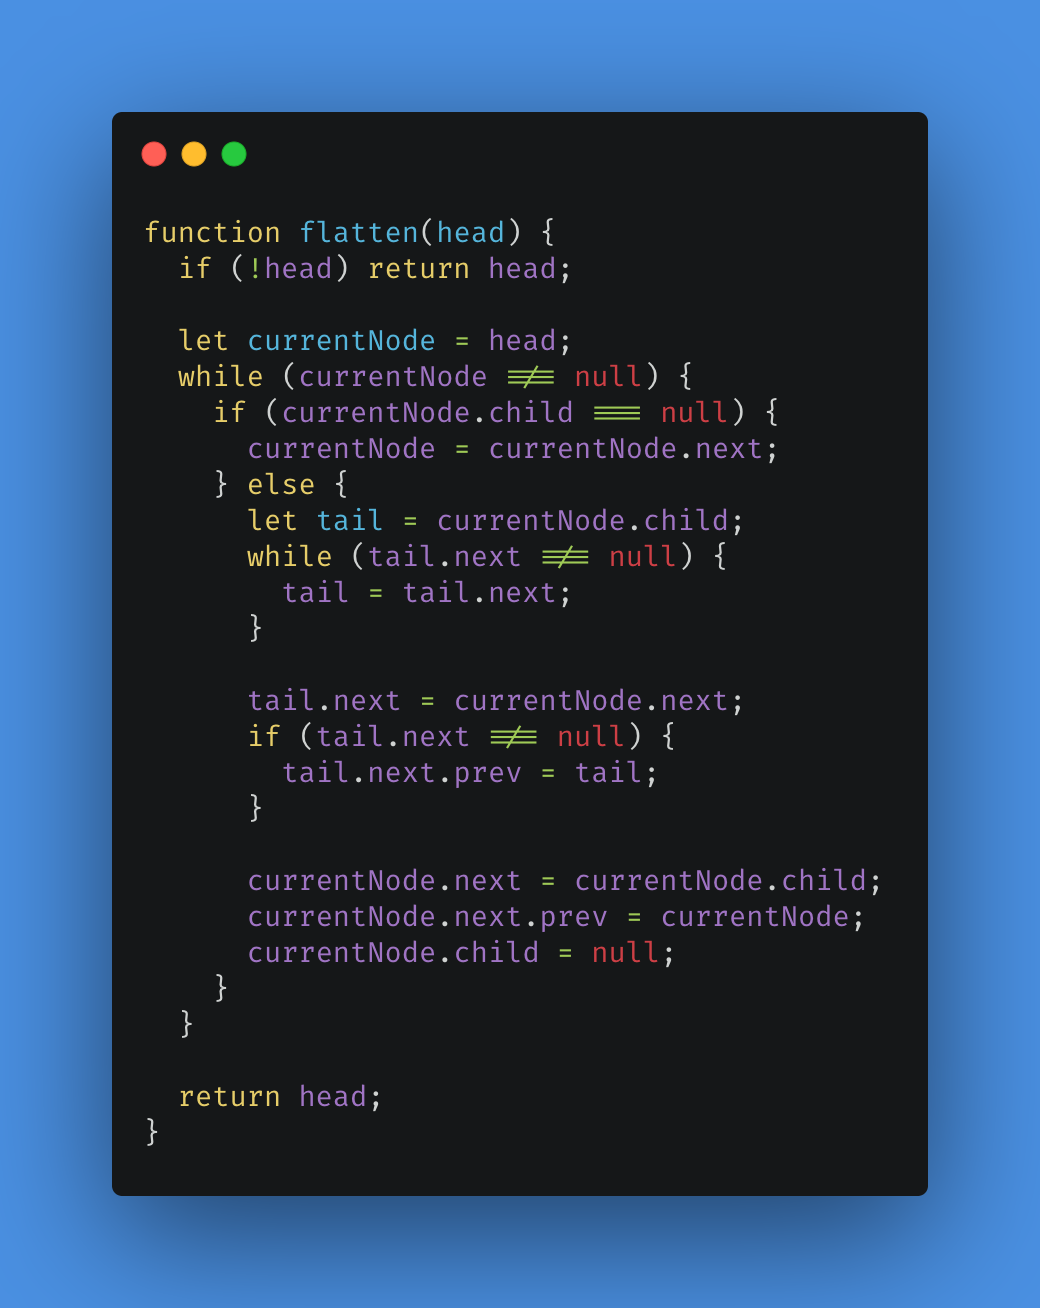
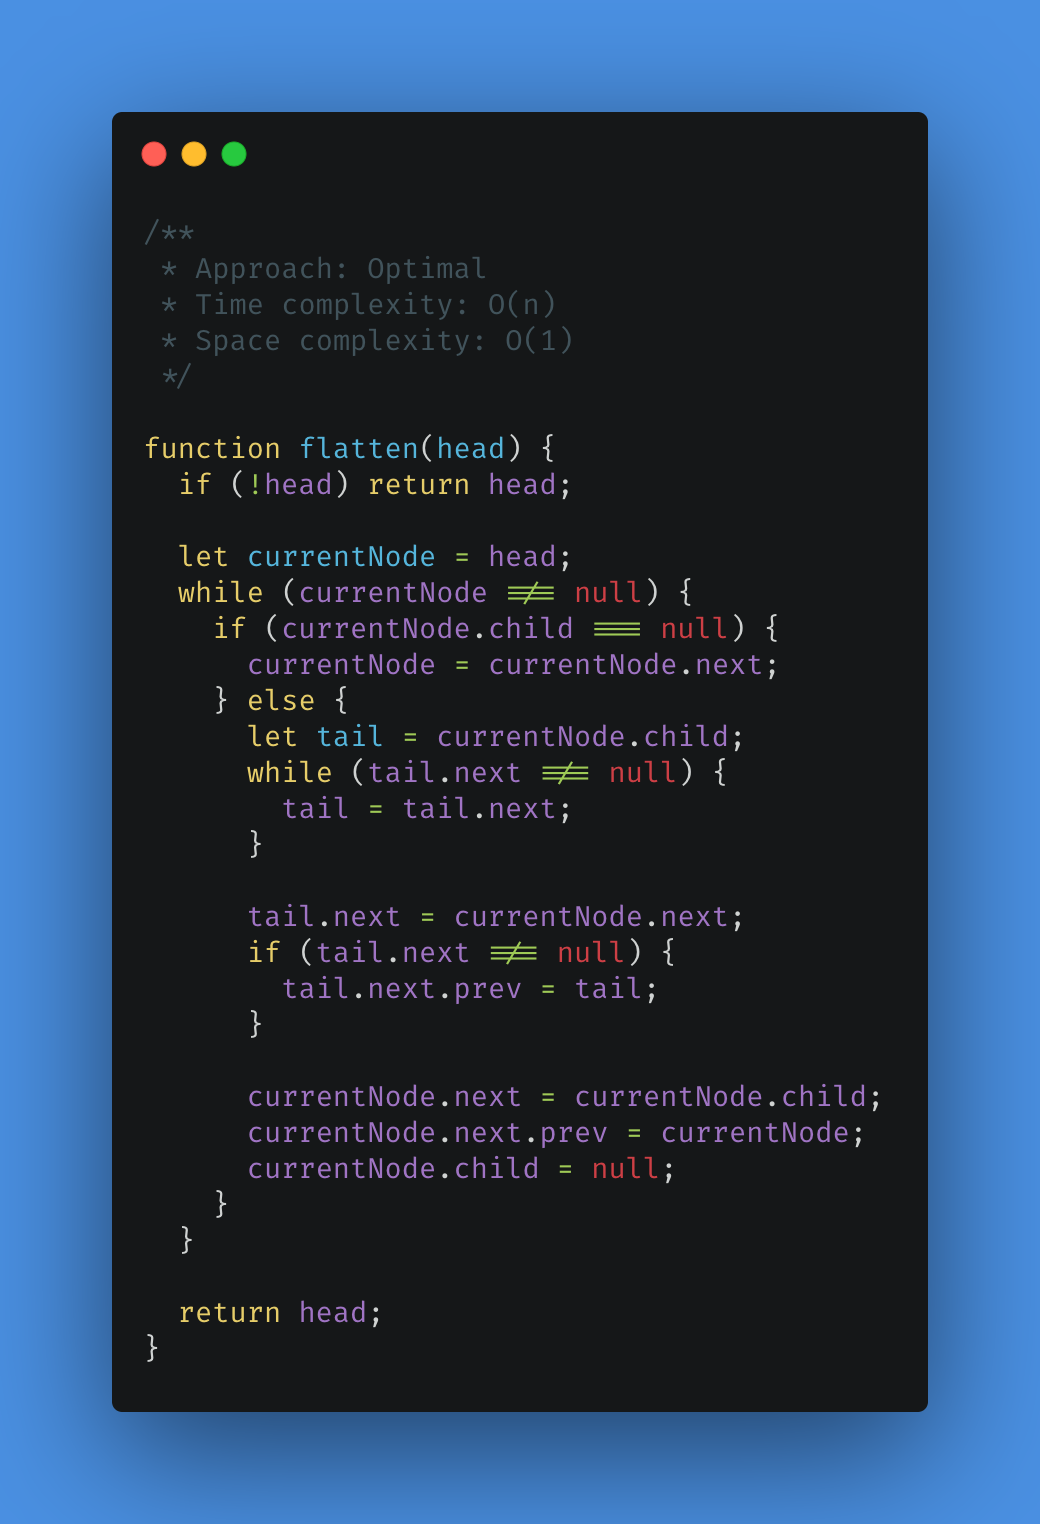
Add comment for optimal solution details

diff --git a/101-leetcode/016/solution.js b/101-leetcode/016/solution.js
@@ -9,6 +9,12 @@ const {
 } = require("./multi-linked-list");
 
 {
+  /**
+   * Approach: Optimal
+   * Time complexity: O(n)
+   * Space complexity: O(1)
+   */
+
   function flatten(head) {
     if (!head) return head;
 

diff --git a/101-leetcode/016/carbon/001.js b/101-leetcode/016/carbon/001.js
@@ -1,3 +1,9 @@
+/**
+ * Approach: Optimal
+ * Time complexity: O(n)
+ * Space complexity: O(1)
+ */
+
 function flatten(head) {
   if (!head) return head;
 
